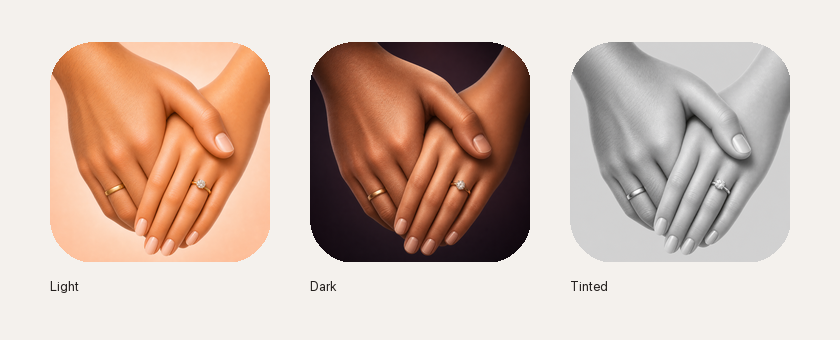
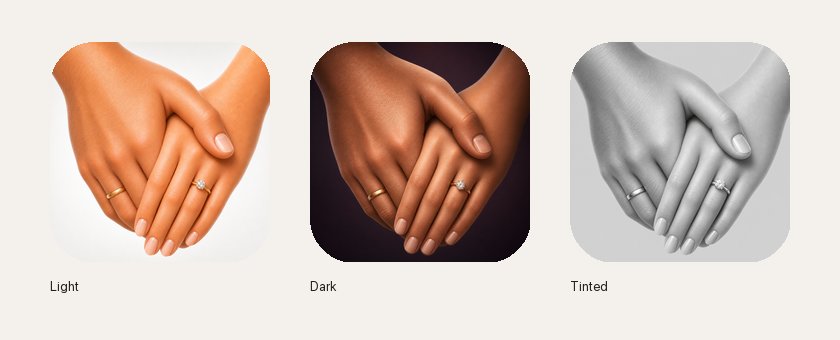
Prepare App Store submission assets

Changed region(s): [[0.0619, 0.2353, 0.3405, 0.7941], [0.1238, 0.1176, 0.3095, 0.2647], [0.2167, 0.5294, 0.2476, 0.5588]]

diff --git a/QA/AppStoreConnectSubmissionChecklist.md b/QA/AppStoreConnectSubmissionChecklist.md
@@ -1,0 +1,58 @@
+# App Store Connect Submission Checklist
+
+Generated: May 28, 2026
+
+## Build Evidence
+
+- Scheme tests passed on iOS Simulator 26.5: 24 unit tests and 2 UI tests, 0 failures.
+- Release device build passed against iPhoneOS 26.5.
+- Static analysis passed.
+- App Store archive succeeded at `/tmp/FairNest-Readiness.xcarchive`.
+- App Store export succeeded at `/tmp/FairNest-AppStoreExport/FairNest.ipa`.
+- Exported IPA uses Cloud Managed Apple Distribution signing, Store provisioning profiles, `get-task-allow=false`, and CloudKit `Production`.
+
+## App Store Connect Inputs
+
+- App name: FairNest
+- Bundle ID: `com.hardikpakhale.fairnest`
+- Widget bundle ID: `com.hardikpakhale.fairnest.widgets`
+- SKU suggestion: `fairnest-ios-1`
+- Category suggestion: Productivity
+- Price suggestion: Free
+- App Store version: `1.0`
+- Build number: `1`
+- Minimum OS: iOS 26.0
+
+## Review Notes
+
+Use `FairNest/Resources/AppReviewNotes.md` as the base review note. Key points:
+
+- Free app with no ads, subscriptions, in-app purchases, third-party analytics, custom backend, or paid API dependency.
+- Local-first app. iCloud sync is off by default.
+- CloudKit private database and CloudKit Sharing are used only when enabled by the user.
+- Partner pairing is optional and uses Apple's private CloudKit sharing sheet.
+- Local notifications only, after permission.
+- Brain dump parsing is on-device with a deterministic local fallback.
+- Not therapy, medical advice, legal advice, counseling, treatment, or diagnosis.
+
+## Privacy Label Draft
+
+Based on the current repo, the privacy label should be "Data Not Collected" by the developer, assuming there is no external service outside Apple CloudKit and the developer does not access user private CloudKit records. Re-check this before submission if analytics, crash SDKs, support forms, email capture, logging, or any backend is added.
+
+Privacy policy URL is required in App Store Connect. Use the text in `FairNest/Resources/PrivacyPolicy.md`, but host it at a public HTTPS URL before submission.
+
+## Export Compliance Draft
+
+The app declares `ITSAppUsesNonExemptEncryption=false`. Current code uses Apple platform services such as CloudKit and standard OS transport/security behavior, with no custom cryptography found in the repo scan. The account holder still needs to certify export compliance in App Store Connect.
+
+## Age Rating Draft
+
+Suggested starting point: general audience / lowest age rating available for a productivity app. Do not put the app in the Kids category. Answer conservatively in App Store Connect if the app metadata mentions partner sharing, household collaboration, or AI suggestions.
+
+## Accessibility Metadata Draft
+
+Claim only what has been manually checked. The SwiftUI UI uses native controls and labels in the core flows, but a full accessibility audit has not been completed in this pass.
+
+## Current External Blocker
+
+Upload failed because App Store Connect returned zero apps for bundle ID `com.hardikpakhale.fairnest`. Create the app record in App Store Connect first, then upload `/tmp/FairNest-AppStoreExport/FairNest.ipa` or rerun the upload export.

diff --git a/FairNest/Resources/AppReviewNotes.md b/FairNest/Resources/AppReviewNotes.md
@@ -1,4 +1,4 @@
-# App Review Notes Draft
+# App Review Notes
 
 FairNest is free and has no ads, subscriptions, in-app purchases, custom backend, or third-party analytics.
 

diff --git a/FairNest/Resources/PrivacyPolicy.md b/FairNest/Resources/PrivacyPolicy.md
@@ -1,4 +1,4 @@
-# FairNest Privacy Policy Draft
+# FairNest Privacy Policy
 
 FairNest is a private household organization app. It does not sell data, show ads, use third-party analytics, use a custom server, or use paid APIs.
 